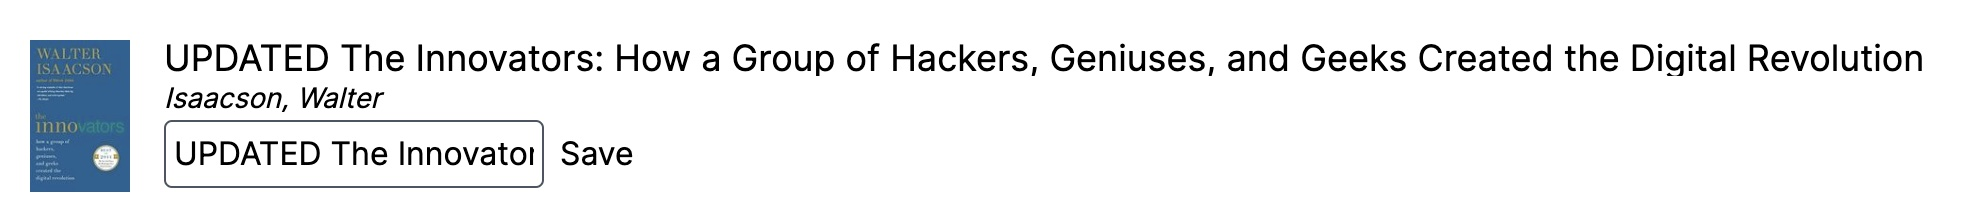
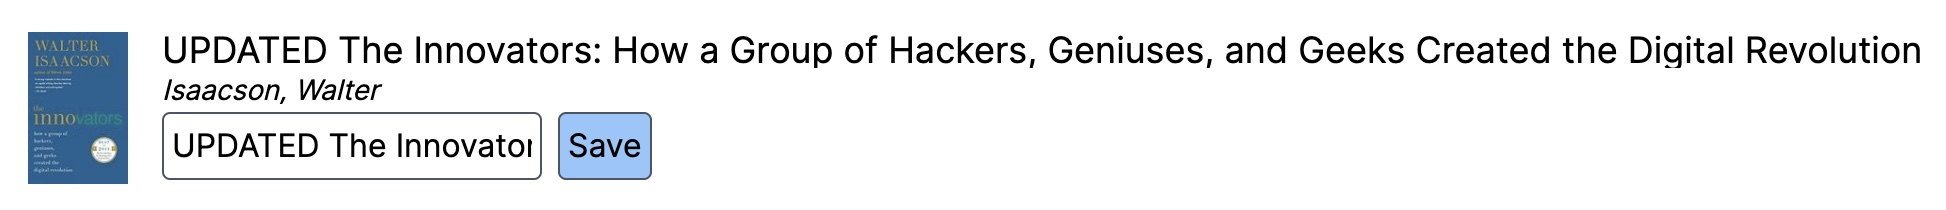
work

diff --git a/blog/rsc-and-react-query/index.md b/blog/rsc-and-react-query/index.md
@@ -4,15 +4,15 @@ date: "2024-05-21T10:00:00.000Z"
 description: An introduction to RSC and react-query
 ---
 
-React Server Components, or RSC, are an incredibly exciting innovation in web development. For this post we'll briefly introduce them, show what their purpose and benefits are, as well as their limitations. We'll wrap up by showing how to pair them with react-query, to help solve those limitations. Let's get started!
+React Server Components (RSC) are an incredibly exciting innovation in web development. For this post we'll briefly introduce them, show what their purpose and benefits are, as well as their limitations. We'll wrap up by showing how to pair them with react-query to help solve those limitations. Let's get started!
 
 ## Why RSC?
 
 React Server Components, as the name implies, execute **on the server**—and the server **alone**. To see why this is significant, let's take a whirlwind tour of how web development evolved over the last 10 or so years.
 
-Prior to RSC, JavaScript frameworks (React, Svelte, Vue, Solid, etc) prodivded you with a component model for building your application. These components were capable of _running on_ the server, but only as a synchronous operation for stringifying your components' html, in order to send down to the browser in order to server render your app. Your app would then render in the browser, again, at which point it would become interactive. With this model, the only way to load data was as a side-effect on the client. Waiting until your app reached your user's browser before beginning to laod data was slow, and inefficient.
+Prior to RSC, JavaScript frameworks (React, Svelte, Vue, Solid, etc) prodivded you with a component model for building your application. These components were capable of _running on_ the server, but only as a synchronous operation for stringifying your components' html, to send down to the browser so it could server render your app. Your app would then render in the browser, again, at which point it would become interactive. With this model, the only way to load data was as a side-effect on the client. Waiting until your app reached your user's browser before beginning to load data was slow, and inefficient.
 
-To solve this inefficiency, meta-frameworks like Next, SvelteKit, Remix, Nuxt, SolidStart, etc were created. These meta-frameworks provided various ways to load data, server-side, with that data being injected by the meta-framework into your component tree. This code was non-portable, and usually a little awkward. You'd have to define some sort of loader function, semantically associated with a given route, asynchronously load data, and then expect it to show up in your component tree based on the rules of whatever meta-framework you're using.
+To solve this inefficiency, meta-frameworks like Next, SvelteKit, Remix, Nuxt, SolidStart, etc were created. These meta-frameworks provided various ways to load data, server-side, with that data being injected by the meta-framework into your component tree. This code was non-portable, and usually a little awkward. You'd have to define some sort of loader function that was associated with a given route, load data, and then expect it to show up in your component tree based on the rules of whatever meta-framework you're using.
 
 This worked, but it wasn't without issue. In addition to being framework-specific, composition also suffered; where typically components are explicitly passed props by whichever component renders them, now there are _implicit_ props passed by the meta-framework, based on what you return from your loader. Lastly, this setup wasn't the most flexible. A given page needs to know what data it needs up front, and request it all from the loader. With client-rendered SPAs we could just render whatever components we need, and let them fetch whatever data they need. This was awful for performance, but amazing for convenience.
 
@@ -22,7 +22,7 @@ RSC bridges that gap and gives us the best of both worlds. We get to _ad hoc_ re
 
 At time of writing RSC are mostly only supported in Next.js, although the minimal framework [Waku](https://waku.gg/) also supports it. Remix and TanStack Router are currently working on implementations, so stay tuned. I'll show a very brief overview of what they look like in Next; consult those other frameworks when they ship (the ideas will be the same, even if the implementations differ slightly).
 
-In Next, when using the new "app directory" (it's literally a folder called "app" that you define your various routes in), pages are RSC by default. Any components imported by these pages are also RSC, as well as components imported by those components, and so on. When you're ready to exit server components and switch back to "client components," you put the "use client" pragma at the top of a component. Now that component, and everything that component imports are client components as well. Check the [Next docs](https://nextjs.org/docs/app) for more info.
+In Next, when using the new "app directory" (it's literally a folder called "app" that you define your various routes in), pages are RSC by default. Any components imported by these pages are also RSC, as well as components imported by those components, and so on. When you're ready to exit server components and switch to "client components," you put the `"use client"` pragma at the top of a component. Now that component, and everything that component imports are client components. Check the [Next docs](https://nextjs.org/docs/app) for more info.
 
 ### How do React Server Components work?
 
@@ -30,7 +30,7 @@ React Server Components are just like regular React Components, but with a few d
 
 Server components have no hydration, since they only execute on the server. That means you can do things like connect directly to a database, or use Server-only api's. But it also means there are many things you can't do in RSCs: you cannot use effects or state, you cannot set up event handlers, or use browser-specific api's like Localstorage. If you violate any of those rules you'll get errors.
 
-For a more thorough introduction to RSC, check the [Next docs](https://nextjs.org/docs/app) for the app directory, or depending on when you read this, the Remix or TanStack Router docs. But to keep this post a reasonable length, let's keep the details in the docs, and see how we use these tools.
+For a more thorough introduction to RSC, check the [Next docs](https://nextjs.org/docs/app) for the app directory, or depending on when you read this, the Remix or TanStack Router docs. But to keep this post a reasonable length, let's keep the details in the docs, and see how we use them.
 
 Let's put together a very basic proof of concept demo app with RSC, see how data mutations work, and some of their limitations. We'll then take that same app (still using RSC) and see how it looks with react-query.
 
@@ -50,7 +50,7 @@ Let's dive in
 
 ## A note on caching
 
-At time of writing, Next is just about to update a new version with radically different caching api's, and defaults. We won't cover any of that for this post. For the demo, I've disabled all caching. Each call to a page, or api endpoint will always run fresh from the server. The client cache will still work, though. So if you click between the two pages, Next will cache and display what you just saw. But refreshing the page will always recreate everything from the server.
+At time of writing, Next is just about to release a new version with radically different caching api's, and defaults. We won't cover any of that for this post. For the demo, I've disabled all caching. Each call to a page, or api endpoint will always run fresh from the server. The client cache will still work, though. So if you click between the two pages, Next will cache and display what you just saw. But refreshing the page will always recreate everything from the server.
 
 ## Loading the data
 
@@ -150,33 +150,44 @@ export const saveBook = async (id: number, title: string) => {
 };
 ```
 
-Note the `"use server"` pragma at the top. That means the function we export is now a server action. The saveBook takes an id, and a title. We post up to an endpoint that updates that book in SQLite. We then call `revalidateTag` with the same tag we passed to our fetch before.
+Note the `"use server"` pragma at the top. That means the function we export is now a server action. `saveBook` takes an id, and a title; it posts to an endpoint to update our book in SQLite, and then calls `revalidateTag` with the same tag we passed to our fetch before.
 
-In real life, we wouldn't even need the books/update endpoint. We'd just do the work right there, inside the server action. But we'll be re-using that books/update endpoint in a bit, when we update data without server actions. And it's nice to keep these code samples clean. The books/update endpoint just opens up SQLite, and executes an UPDATE.
+In real life, we wouldn't even need the books/update endpoint. We'd just do the work right in the server action. But we'll be re-using that books/update endpoint in a bit, when we update data without server actions. And it's nice to keep these code samples clean. The books/update endpoint just opens up SQLite, and executes an UPDATE.
 
 Let's see the BookEdit component we use with RSC
 
 ```jsx
 "use client";
 
-import { FC, useRef } from "react";
+import { FC, useRef, useTransition } from "react";
 import { saveBook } from "../serverActions";
-import { BookEditProps } from "./types";
+import { BookEditProps } from "../types";
 
 export const BookEdit: FC<BookEditProps> = (props) => {
   const { book } = props;
   const titleRef = useRef<HTMLInputElement>(null);
+  const [saving, startSaving] = useTransition();
+
+  function doSave() {
+    startSaving(async () => {
+      await saveBook(book.id, titleRef.current!.value);
+    });
+  }
 
   return (
     <div className="flex gap-2">
       <input className="border rounded border-gray-600 p-1" ref={titleRef} defaultValue={book.title} />
-      <button onClick={() => saveBook(book.id, titleRef.current!.value)}>Save</button>
+      <button className="rounded border border-gray-600 p-1 bg-blue-300" disabled={saving} onClick={doSave}>
+        {saving ? "Saving..." : "Save"}
+      </button>
     </div>
   );
 };
 ```
 
-It's a client component. We import the server action, and then just call it in a button's event handler. Stop and consider just how radical this is, and what React and Next are doing under the covers. All we did was create a vanilla function. We then imported that function, and called it from a button's event handler. But under the covers a network request is made to an endpoint that's synthesized for us. And then the `revalidateTag` tells Next what's changed, so our RSC can re-run, re-request data, and send down updated markup.
+It's a client component. We import the server action, and then just call it in a button's event handler, wrapped in a transiotion so we can have saving state.
+
+Stop and consider just how radical this is, and what React and Next are doing under the covers. All we did was create a vanilla function. We then imported that function, and called it from a button's event handler. But under the covers a network request is made to an endpoint that's synthesized for us. And then the `revalidateTag` tells Next what's changed, so our RSC can re-run, re-request data, and send down updated markup.
 
 Not only that, but all this happens in **one round trip** with the server.
 
@@ -190,7 +201,7 @@ This seems too good to be true. What's the catch? Well, let's see what the termi
 
 ![Server Action](/rsc-and-react-query/server-action.jpg)
 
-Ummmm, why are _all_ of our data re-loading? We only called `revalidateTag` on our books, not our subjects or tags. The problem is that `revalidateTag` doesn't tell Next what to reload, it tells it what to eject from its cache. The fact is, Next needs to reload everything for the current page when we call `revalidateTag`. This makes sense when you think about what's really happening. These server components are not stateful; they run on the server, but they don't _live_ on the server. The request executes on our server, those RSCs render, and send down the markup, and that's that. The component tree does not live in indefinitely on the server; our servers wouldn't scale very well if they did!
+Ummmm, why are _all_ of our data re-loading? We only called `revalidateTag` on our books, not our subjects or tags. The problem is that `revalidateTag` doesn't tell Next what to reload, it tells it what to eject from its cache. The fact is, Next needs to reload everything for the current page when we call `revalidateTag`. This makes sense when you think about what's really happening. These server components are not stateful; they run on the server, but they don't _live_ on the server. The request executes on our server, those RSCs render, and send down the markup, and that's that. The component tree does not live on indefinitely on the server; our servers wouldn't scale very well if they did!
 
 So how do we solve this? For a use case like this, the solution would be to _not_ turn off caching. We'd lean on Next's caching mechanism, whatever they look like when you happen to read this. We'd cache each of these data with different tags, and invalidate the tag related to the data we just updated.
 
@@ -202,9 +213,9 @@ This sounds genuinely unbelievable; but it's true. If we artificially slow down 
 
 ![Serial Server Action](/rsc-and-react-query/serial-execution.jpg)
 
-This is a known issue, and will presumably be fixed at some point. But the re-loading without caching issue is unavoidable with how this works.
+This is a known issue, and will presumably be fixed at some point. But the re-loading without caching issue is unavoidable with how Next app directory is designed.
 
-Just to be clear, server actions are still, even with these limitations, outstanding (for some use cases). If you have a web page with a form, and a submit button, server actions are **outstanding**. None of these limitations will matter (assuming your form doesn't depend on a bunch of different data sources). In fact, server actions go especially well with forms. You can even set the "action" of a form (in Next) directly to a server action. See the docs for more info, as well as on related hooks, like useFormStatus hook.
+Just to be clear, server actions are still, even with these limitations, outstanding (for some use cases). If you have a web page with a form, and a submit button, server actions are **outstanding**. None of these limitations will matter (assuming your form doesn't depend on a bunch of different data sources). In fact, server actions go especially well with forms. You can even set the "action" of a form (in Next) directly to a server action. See [the docs](https://nextjs.org/docs/app/building-your-application/data-fetching/server-actions-and-mutations) for more info, as well as on related hooks, like [useFormStatus hook](https://react.dev/reference/react-dom/hooks/useFormStatus).
 
 But back to our app. We don't have a page with a single form and no data sources. We have lots of little forms, on a page with lots of data sources. Server actions won't work well here, so let's see an alternative.
 
@@ -212,9 +223,9 @@ But back to our app. We don't have a page with a single form and no data sources
 
 [React Query](https://tanstack.com/query/latest/docs/framework/react/overview) is probably the most mature, well-maintained data management library in the React ecosystem. Unsurprisngly, it also works well with RSC.
 
-To use react-query we'll need to install two packages: `npm i @tanstack/react-query @tanstack/react-query-next-experimental`. Don't let the experimental scare you; it's been out awhile and works well.
+To use react-query we'll need to install two packages: `npm i @tanstack/react-query @tanstack/react-query-next-experimental`. Don't let the experimental in the name scare you; it's been out for awhile, and works well.
 
-Next, let's make a `Providers` component, and render it from our root layout
+Now we'll make a `Providers` component, and render it from our root layout
 
 ```jsx
 "use client";
@@ -238,7 +249,7 @@ Now we're ready to go.
 
 ### Loading data with react-query
 
-The long and short of it is that we use the `useSuspenseHook` from inside of client components. Let's see some code. Here's the Books component from the react-query version of our app.
+The long and short of it is that we use the `useSuspenseQuery` hook from inside client components. Let's see some code. Here's the Books component from the react-query version of our app.
 
 ```jsx
 "use client";
@@ -319,7 +330,7 @@ export const BookEdit: FC<BookEditProps> = (props) => {
 };
 ```
 
-The saveBook function calls out to the same book updating endpoint as before. We then call `invalidateQueries` with the first part of the query key, `books-query`. Remember, the actual queryKey we used in our query hook was `queryKey: ["books-query", search ?? ""]`. Calling invalidate queries with the first piece of that key will invalidate everything that's _starts with_ that key, and will immediately re-fire any of those queries which are still on the page. So if you started out with an empty search, then searched for X, then Y, then Z, and updated a book, this code will clear the cache of all those entries, and then immediately re-run the Z query, and update our UI.
+The saveBook function calls out to the same book updating endpoint as before. We then call `invalidateQueries` with the first part of the query key, `books-query`. Remember, the actual queryKey we used in our query hook was `queryKey: ["books-query", search]`. Calling invalidate queries with the first piece of that key will invalidate everything that's _starts with_ that key, and will immediately re-fire any of those queries which are still on the page. So if you started out with an empty search, then searched for X, then Y, then Z, and updated a book, this code will clear the cache of all those entries, and then immediately re-run the Z query, and update our UI.
 
 And it works.
 
@@ -327,7 +338,7 @@ And it works.
 
 The downside here is that we need two roundtrips from the browser to the server. The first roundtrip updates our book, and when that finishes, we then, from the browser, call `invalidateQueries`, which causes react-query to send a new network request for the updated data.
 
-This is a surprisingly small price to pay. Remember, with server actions, calling `revalidateTag` will cause your entire component tree to re-render, which by extension will re-request all their various data. If you don't have everything cached (on the server) properly, it's very easy for this single round trip to take longer than the two round trips react-query uses. I say this with experience. I recently helped a friend / founder build a financial dashboard app. I had react-query set up just like this, and also implemented a server action to update a piece of data. And I had the same data rendered, and updated twice: once in an RSC, and again adjacently in a client component from a `useSuspenseQuery` hook. I basically fired off a race to see which would update first, certain the server action would, but was _shocked_ to see react-query win. I initially thought I'd done something wrong until I realized what was happening (and hastened to roll back my server action work).
+This is a surprisingly small price to pay. Remember, with server actions, calling `revalidateTag` will cause your entire component tree to re-render, which by extension will re-request all their various data. If you don't have everything cached (on the server) properly, it's very easy for this single round trip to take longer than the two round trips react-query needs. I say this from experience. I recently helped a friend / founder build a financial dashboard app. I had react-query set up just like this, and also implemented a server action to update a piece of data. And I had the same data rendered, and updated twice: once in an RSC, and again adjacently in a client component from a `useSuspenseQuery` hook. I basically fired off a race to see which would update first, certain the server action would, but was _shocked_ to see react-query win. I initially thought I'd done something wrong until I realized what was happening (and hastened to roll back my server action work).
 
 ## Playing on hard mode
 
